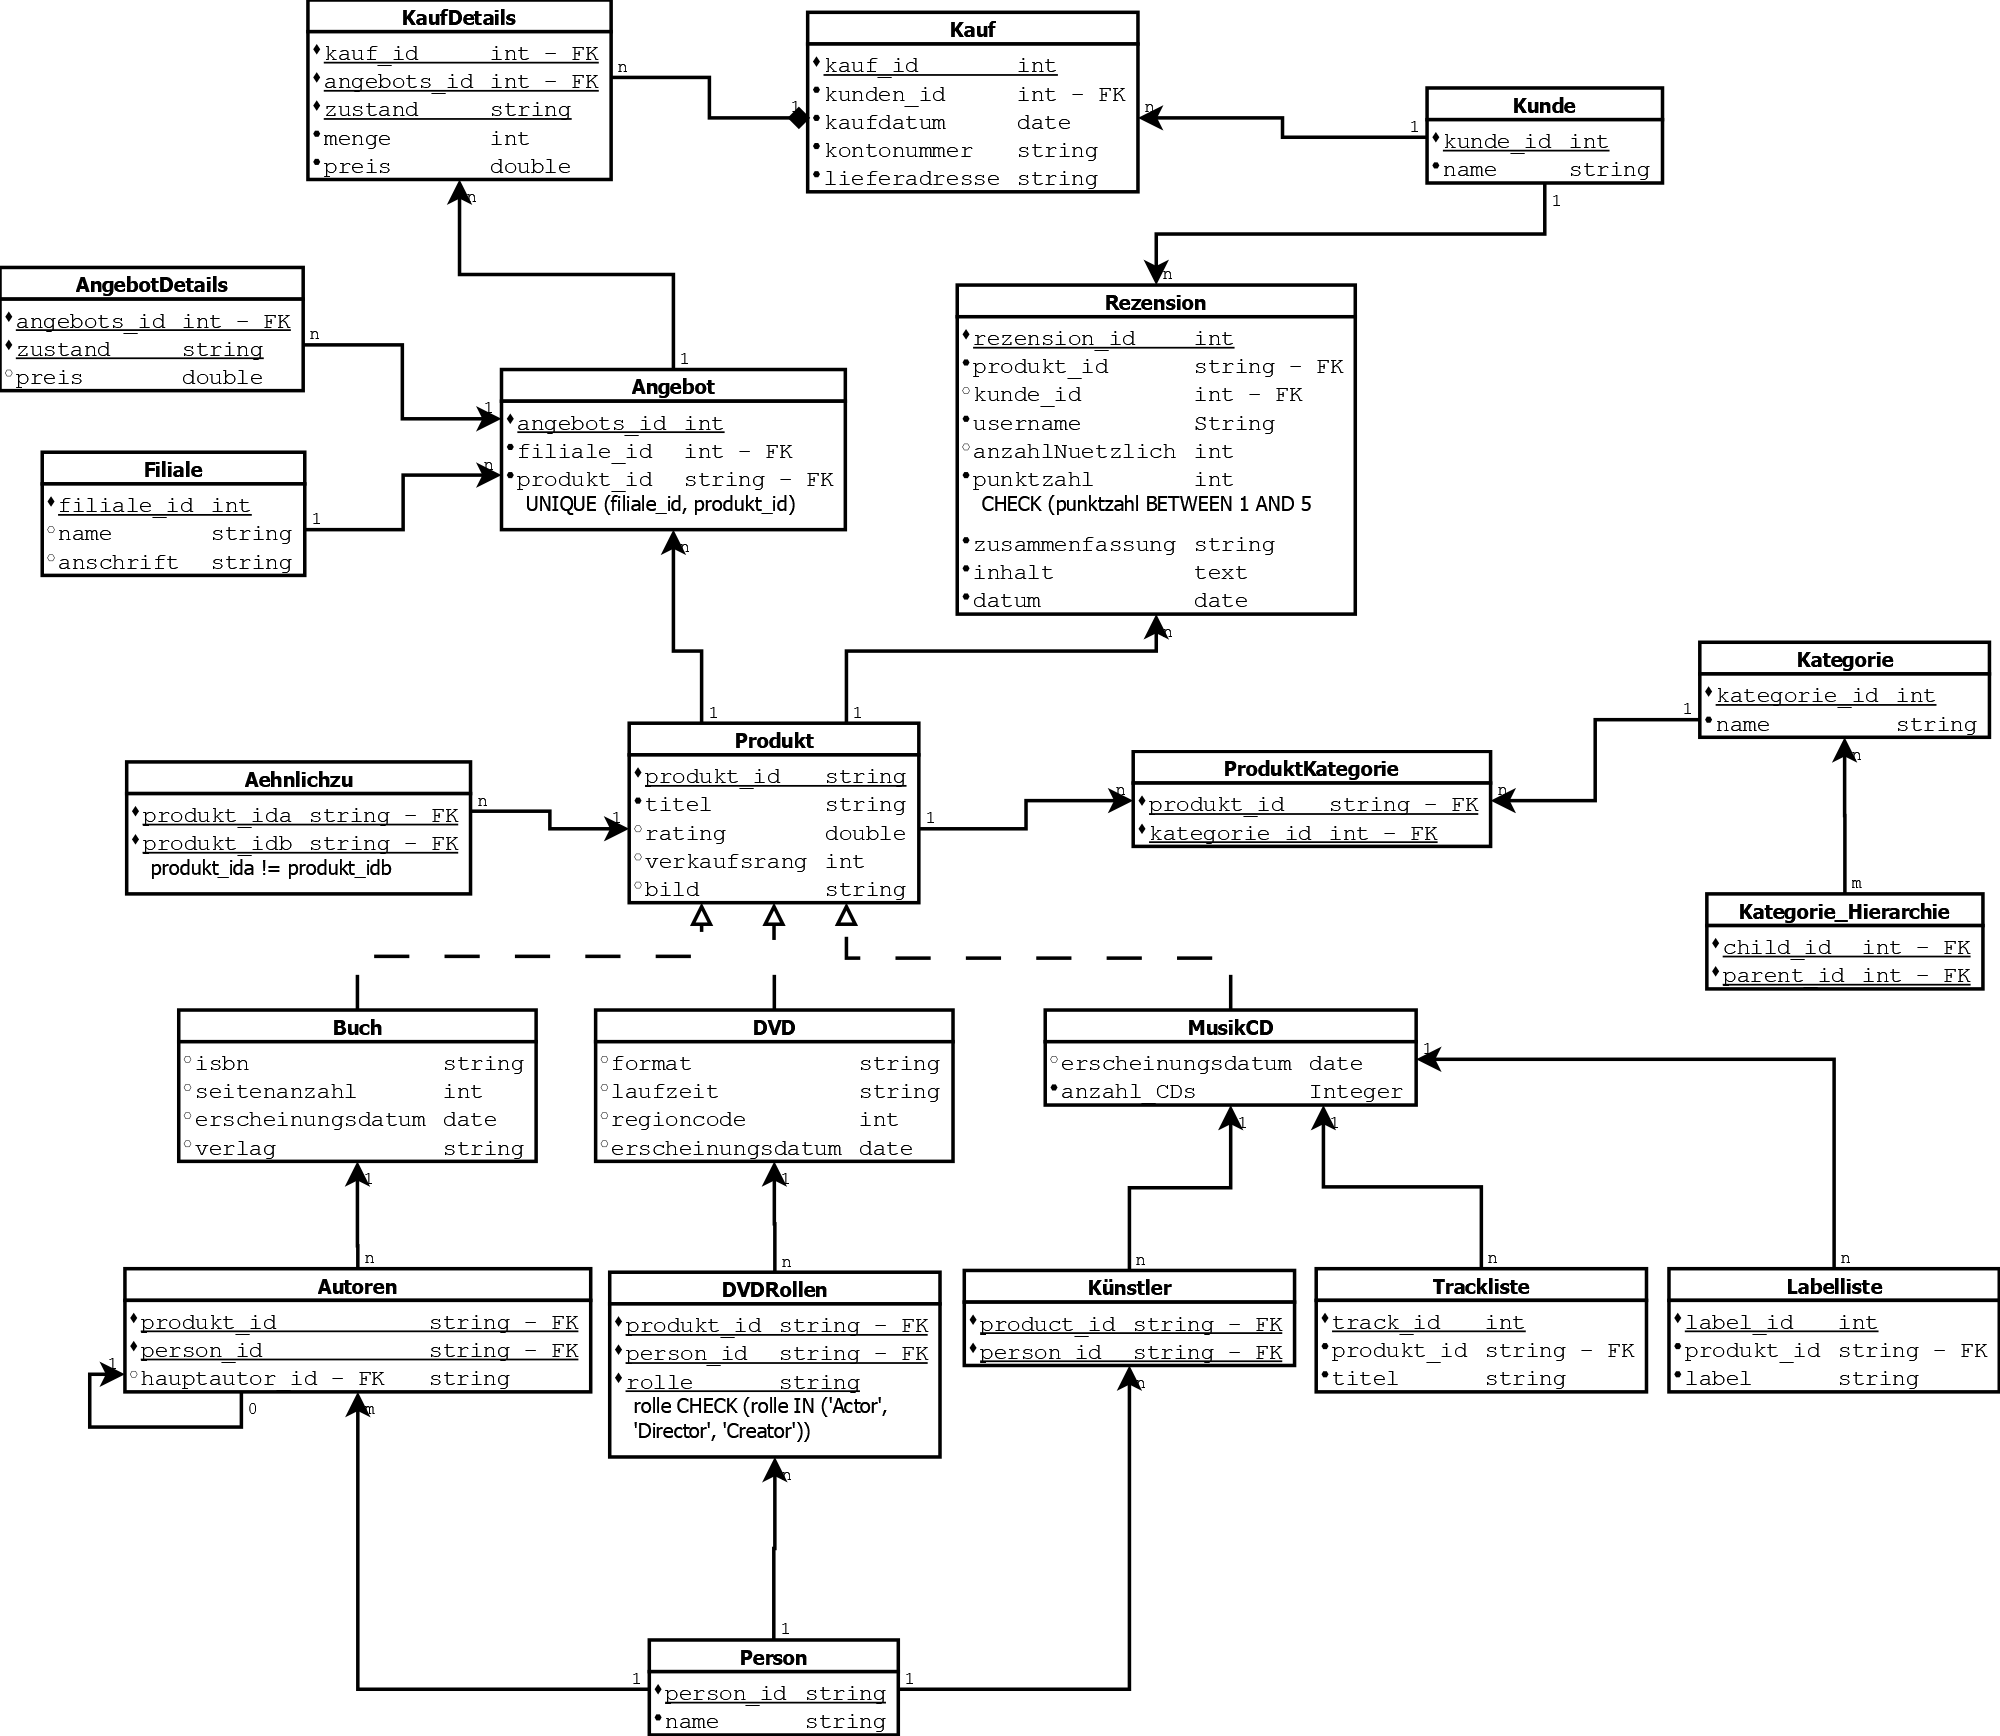
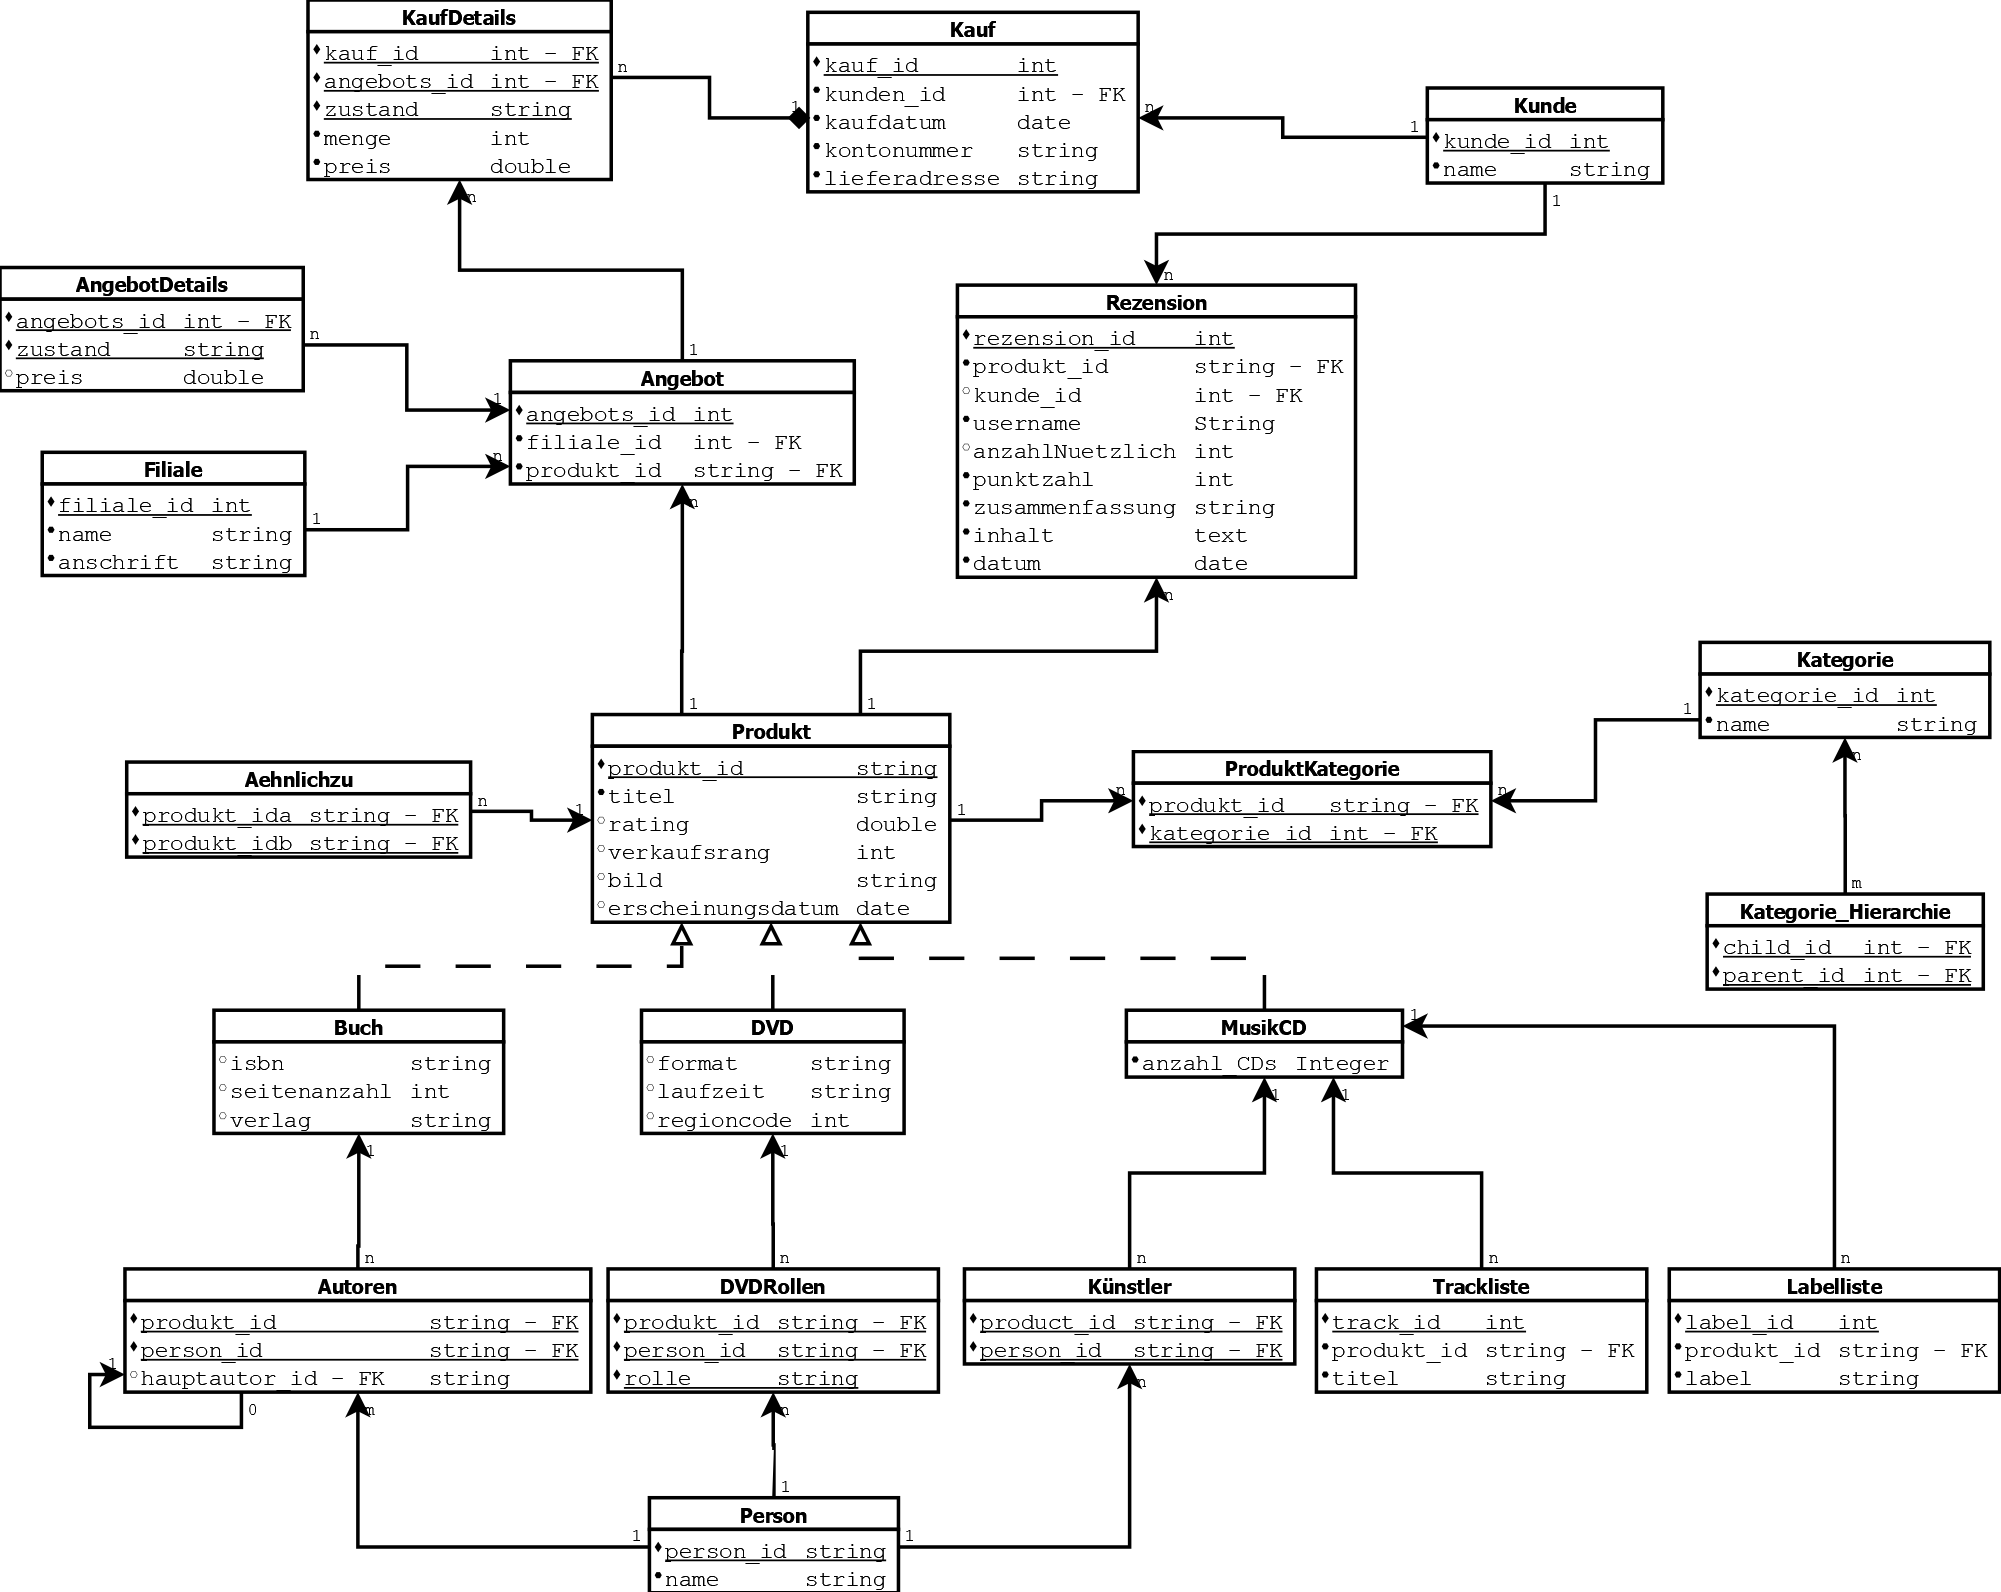
switch column erscheinungsdatum to table produkt and update schematics

diff --git a/backend/src/main/java/com/backend/entity/MusikCD.java b/backend/src/main/java/com/backend/entity/MusikCD.java
@@ -20,8 +20,8 @@ import lombok.Setter;
 @PrimaryKeyJoinColumn(name = "produkt_id")
 public class MusikCD extends Produkt {
 
-    @Column(name = "erscheinungsdatum")
-    private LocalDate erscheinungsdatum;
+    // @Column(name = "erscheinungsdatum")
+    // private LocalDate erscheinungsdatum;
 
     @Column(name = "anzahlCDs")
     private Integer anzahlcds;

diff --git a/backend/src/main/java/com/backend/entity/Buch.java b/backend/src/main/java/com/backend/entity/Buch.java
@@ -24,8 +24,8 @@ public class Buch extends Produkt {
     @Column(name = "seitenanzahl")
     private Integer seitenanzahl;
 
-    @Column(name = "erscheinungsdatum")
-    private LocalDate erscheinungsdatum;
+    // @Column(name = "erscheinungsdatum")
+    // private LocalDate erscheinungsdatum;
 
     @Column(name = "verlag")
     private String verlag;

diff --git a/backend/src/main/java/com/backend/entity/Produkt.java b/backend/src/main/java/com/backend/entity/Produkt.java
@@ -1,5 +1,6 @@
 package com.backend.entity;
 
+import java.time.LocalDate;
 import java.util.HashSet;
 import java.util.Set;
 
@@ -36,6 +37,9 @@ public class Produkt {
 
     @Column(name = "bild", length=1023)
     private String bild;
+
+    @Column(name = "erscheinungsdatum")
+    private LocalDate erscheinungsdatum;    
 
     // Beziehungen 
 

diff --git a/backend/src/main/java/com/backend/entity/DVD.java b/backend/src/main/java/com/backend/entity/DVD.java
@@ -26,6 +26,6 @@ public class DVD extends Produkt {
     @Column(name = "region_code")
     private Integer regionCode;
 
-    @Column(name = "erscheinungsdatum")
-    private LocalDate erscheinungsdatum;
+    // @Column(name = "erscheinungsdatum")
+    // private LocalDate erscheinungsdatum;
 }
